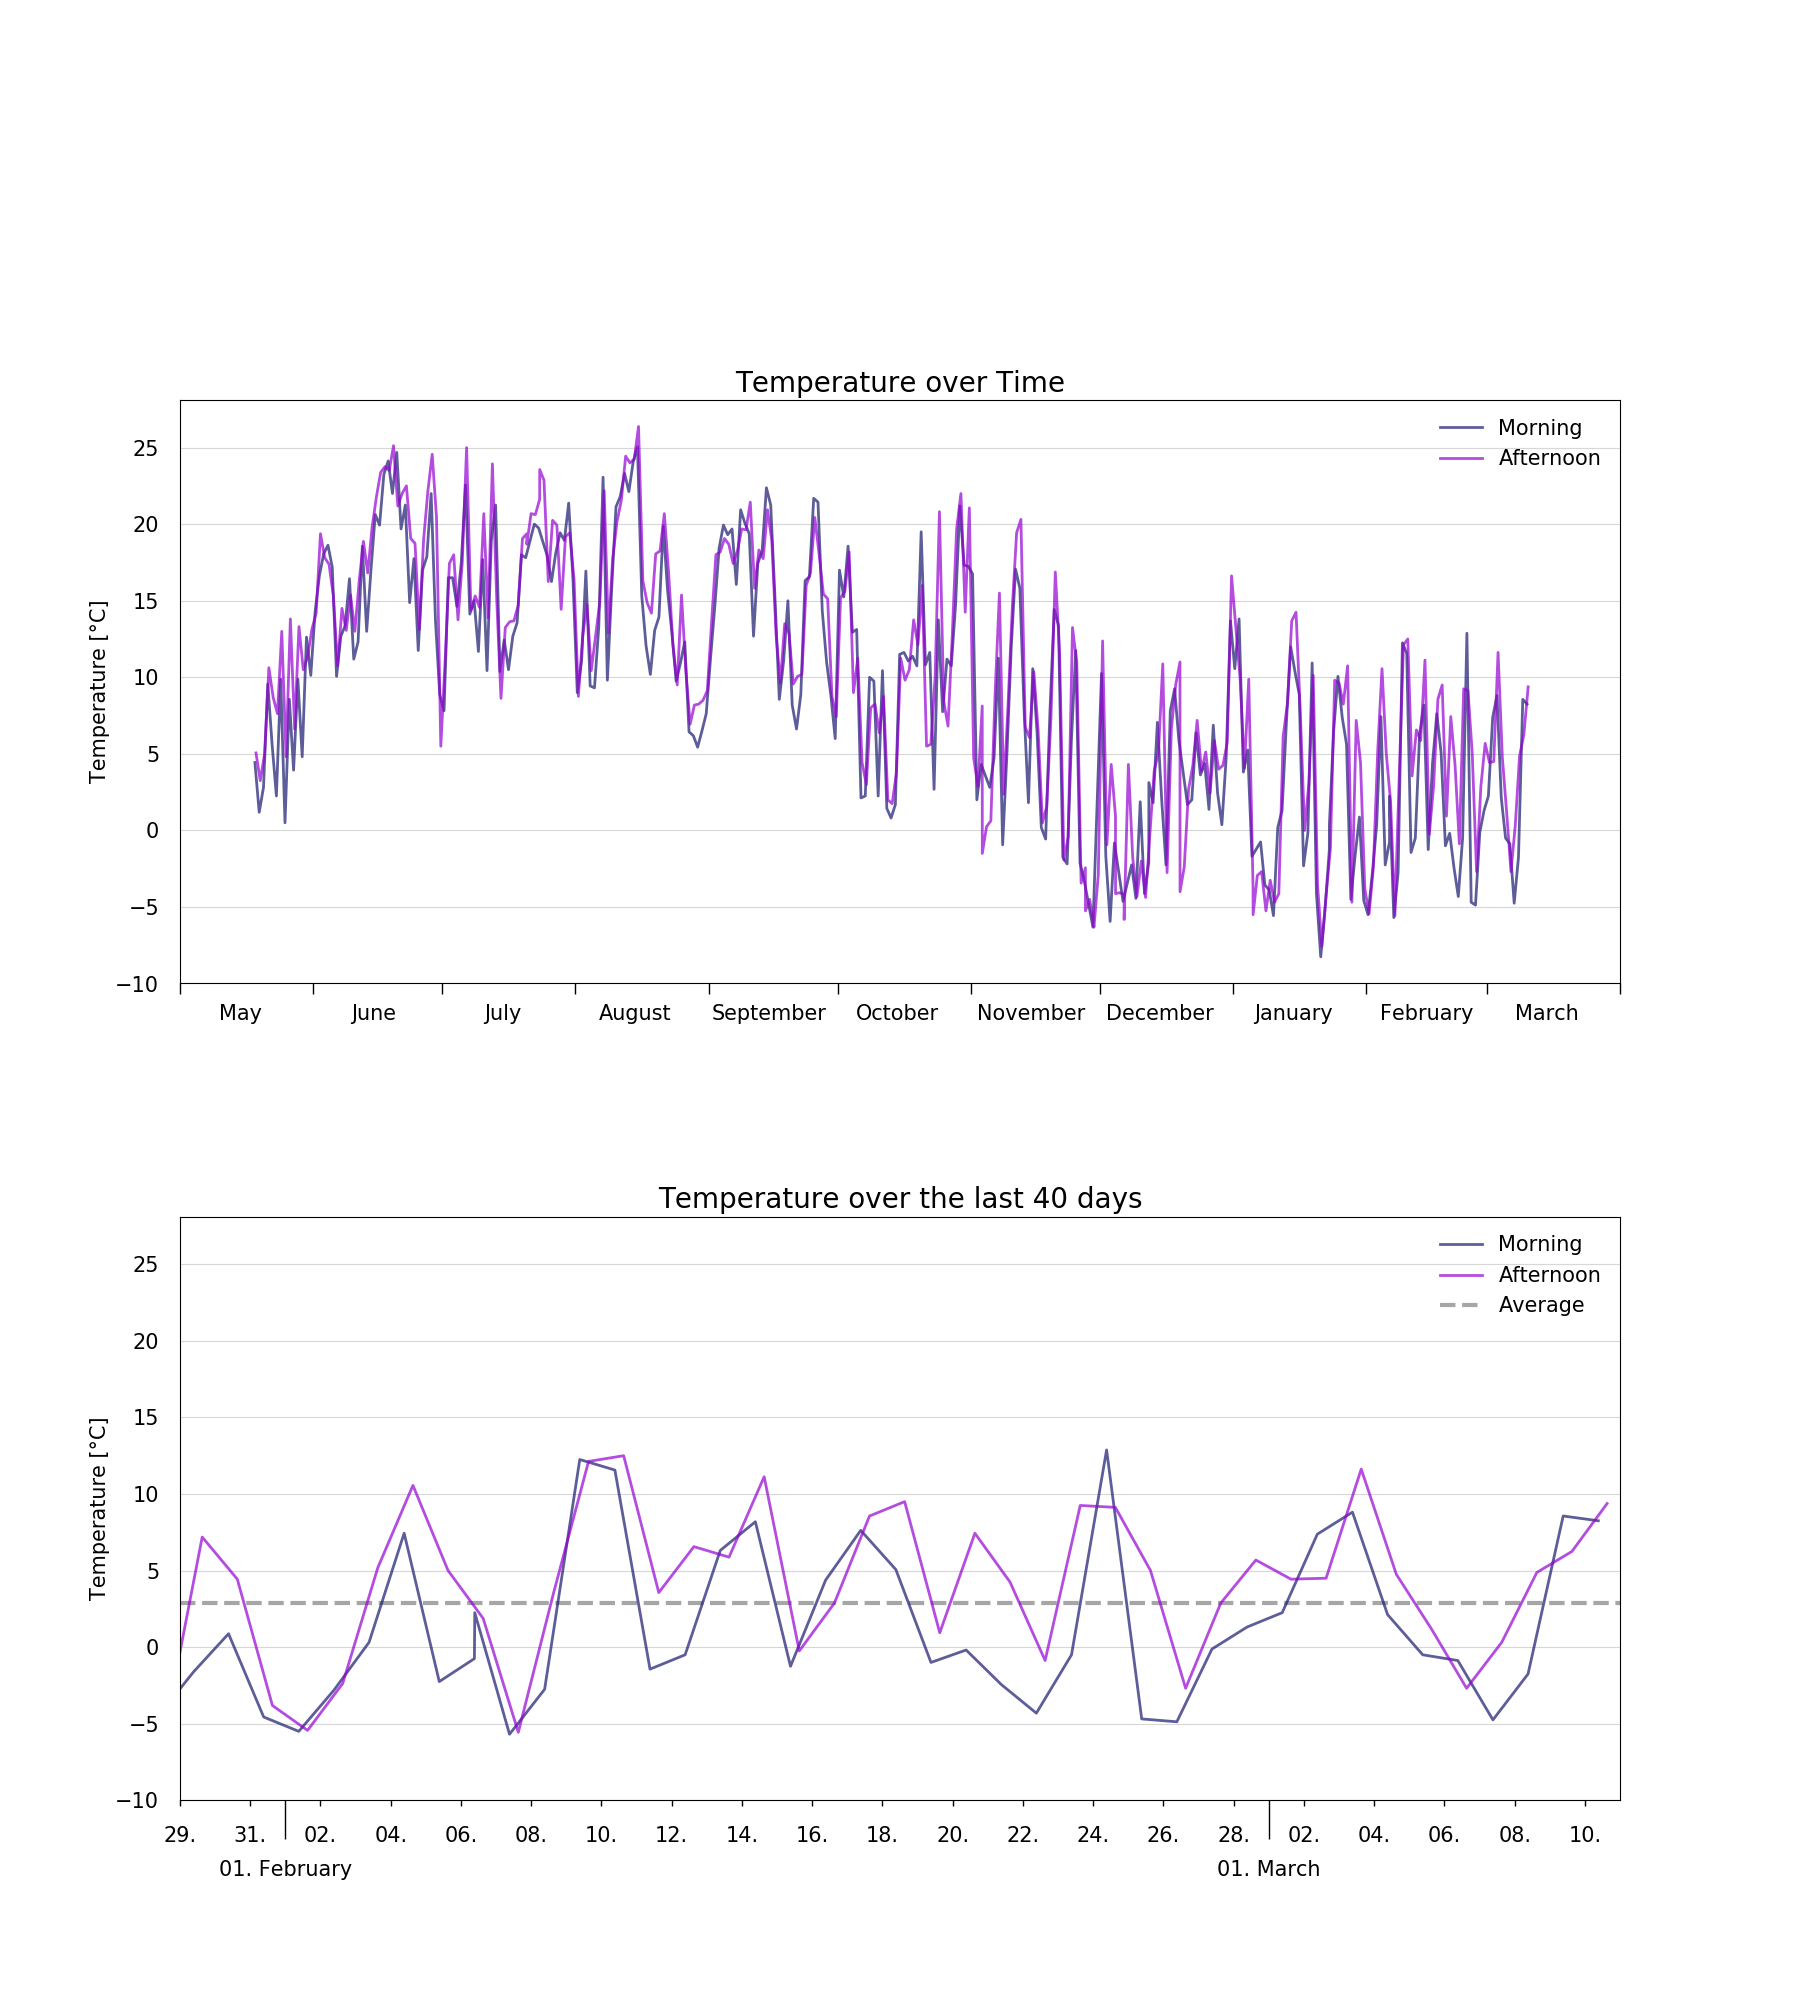
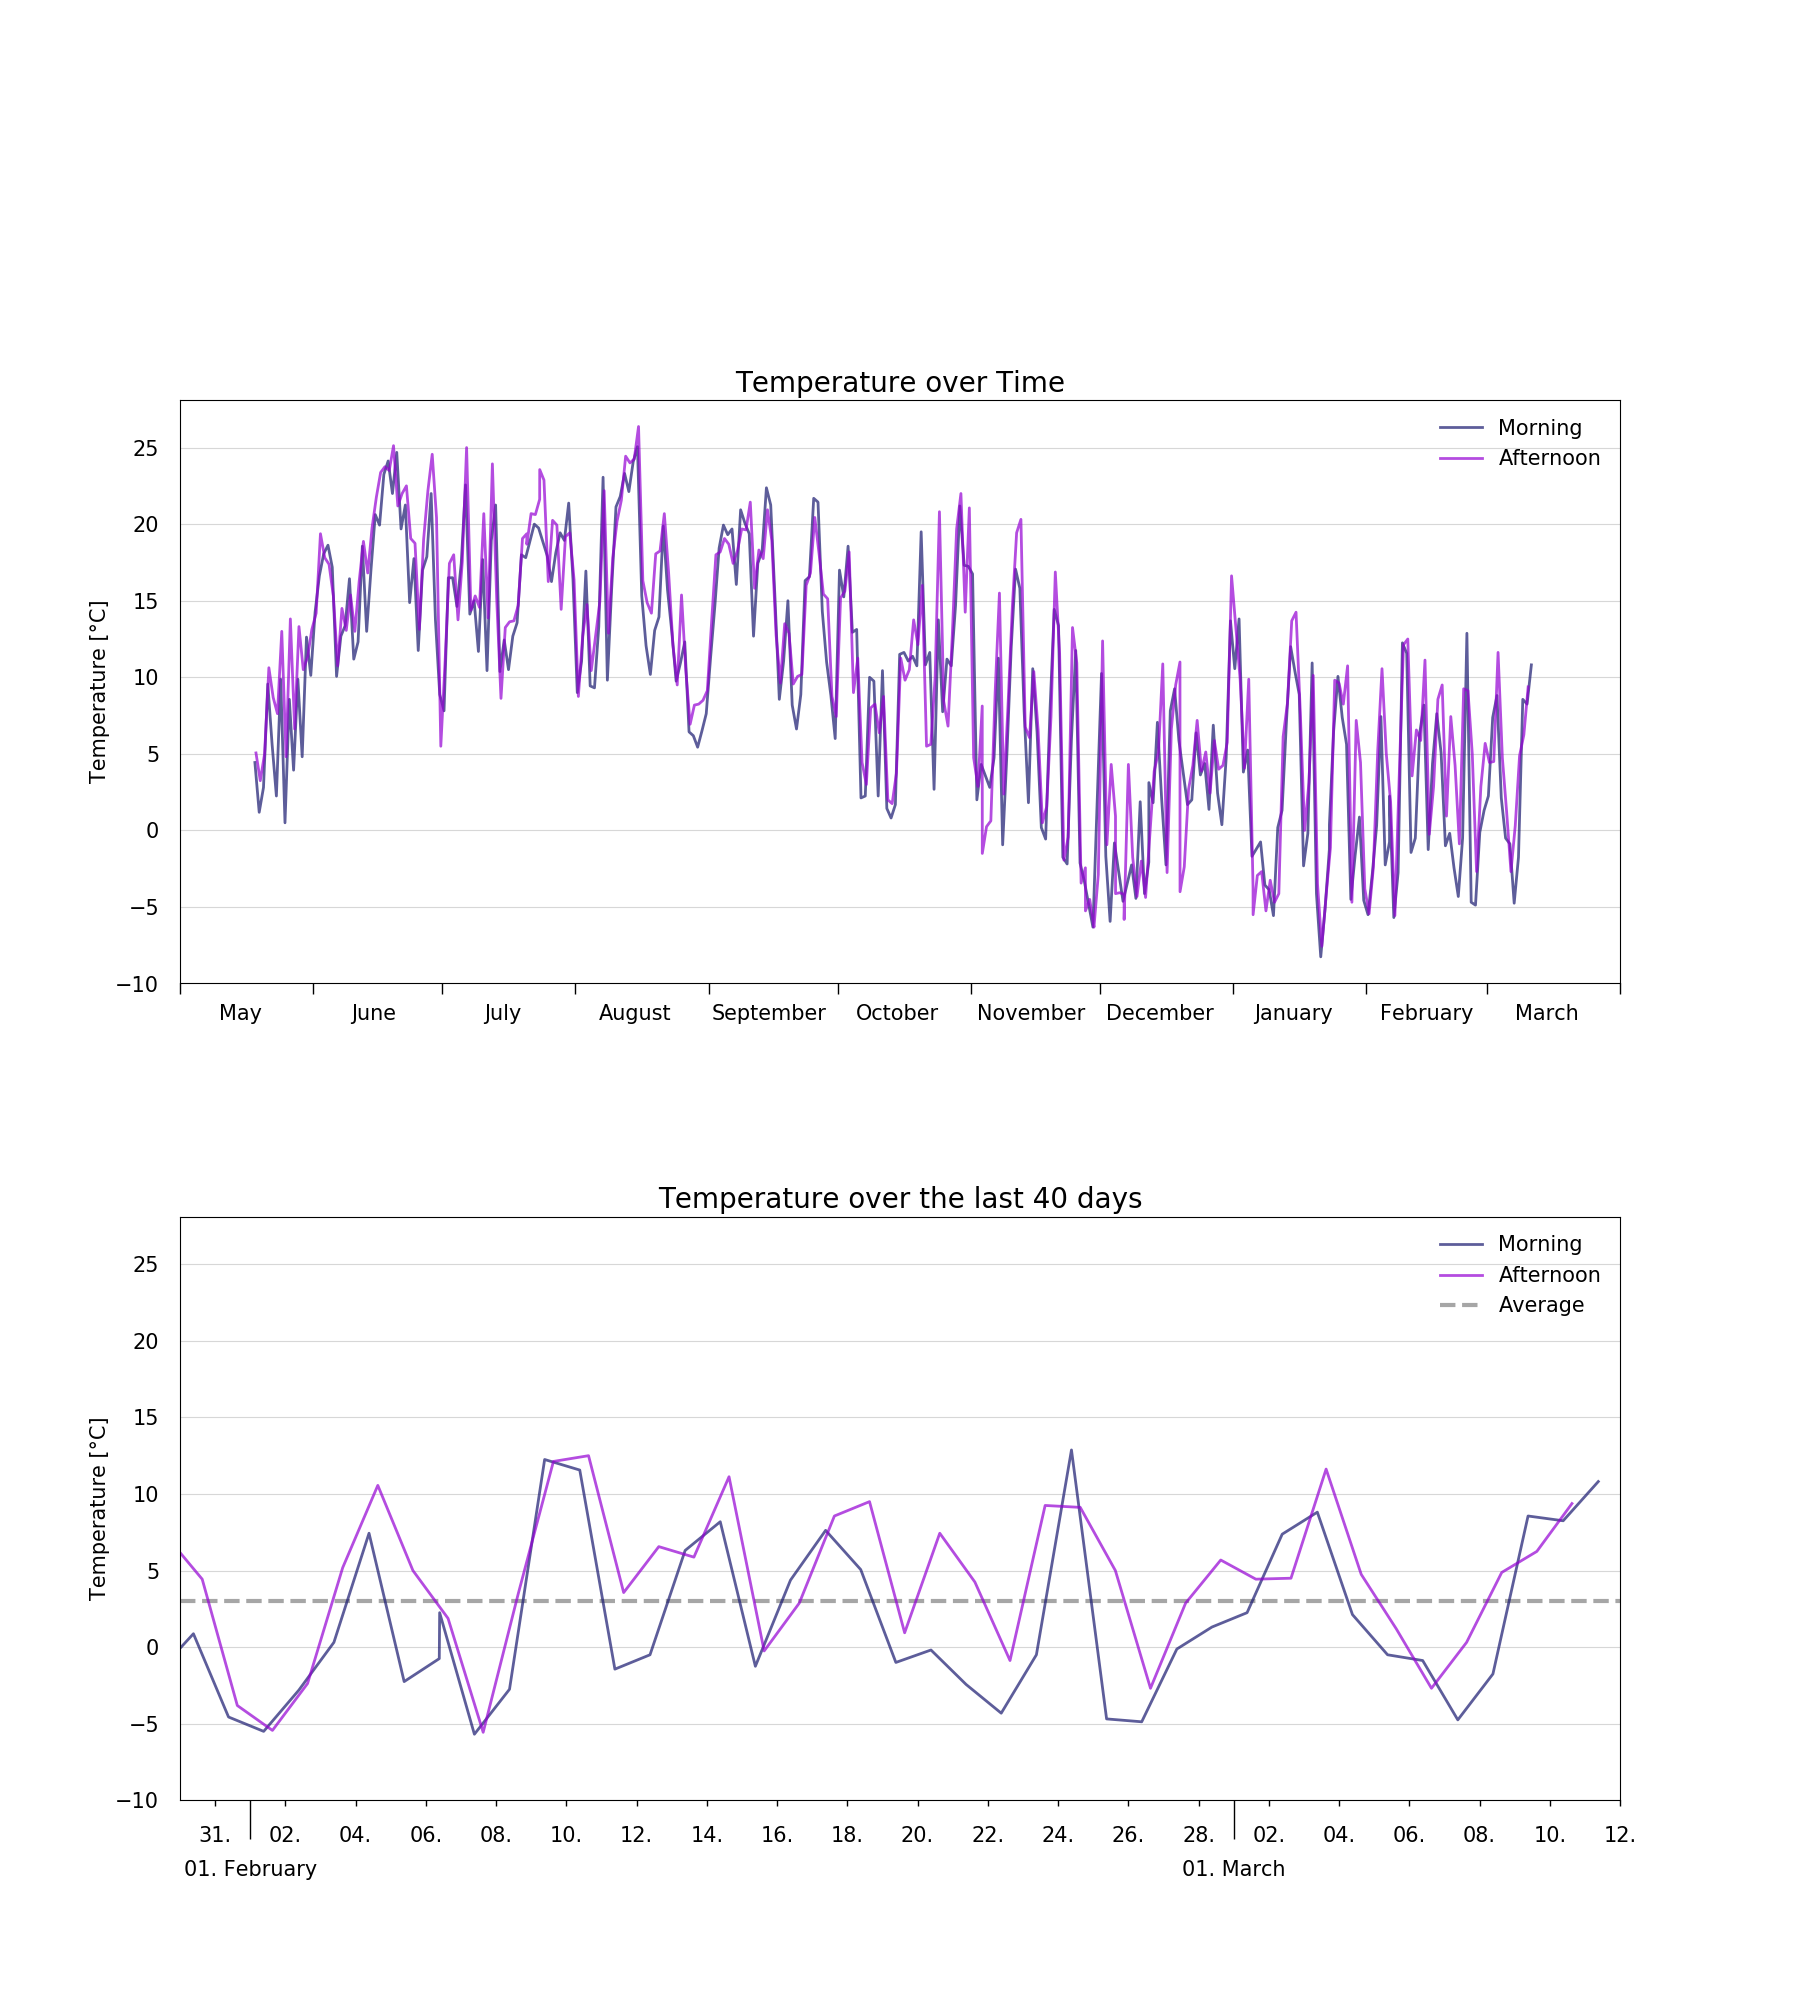
I'm a bot beep boop

diff --git a/resources/huette.md b/resources/huette.md
@@ -6,13 +6,13 @@ image: '/assets/img/'
 description: 'Live image from the Austrian alps'
 twitter_text: ' '
 ---
-## Latest image from 10 March 2022 at 15:11
+## Latest image from 11 March 2022 at  9:11
 <div class="huette">
   <div class="huette-image">
     <img src="{{ "/assets/img/huette.jpg" | prepend: site.baseurl }}">
   </div>
   <div class="huette-text">
-        <h2>Current Temperature: 9.375°C</h2>
+        <h2>Current Temperature: 10.812°C</h2>
         <p>A solar powered raspberry pi left alone in the wild is sending daily images and temperature data to this website. It should give you an impression about the current weather in the "Brixental".</p>
 
   </div>

diff --git a/rpi-script/huette.md b/rpi-script/huette.md
@@ -6,13 +6,13 @@ image: '/assets/img/'
 description: 'Live image from the Austrian alps'
 twitter_text: ' '
 ---
-## Latest image from 10 March 2022 at 15:11
+## Latest image from 11 March 2022 at  9:11
 <div class="huette">
   <div class="huette-image">
     <img src="{{ "/assets/img/huette.jpg" | prepend: site.baseurl }}">
   </div>
   <div class="huette-text">
-        <h2>Current Temperature: 9.375°C</h2>
+        <h2>Current Temperature: 10.812°C</h2>
         <p>A solar powered raspberry pi left alone in the wild is sending daily images and temperature data to this website. It should give you an impression about the current weather in the "Brixental".</p>
 
   </div>
